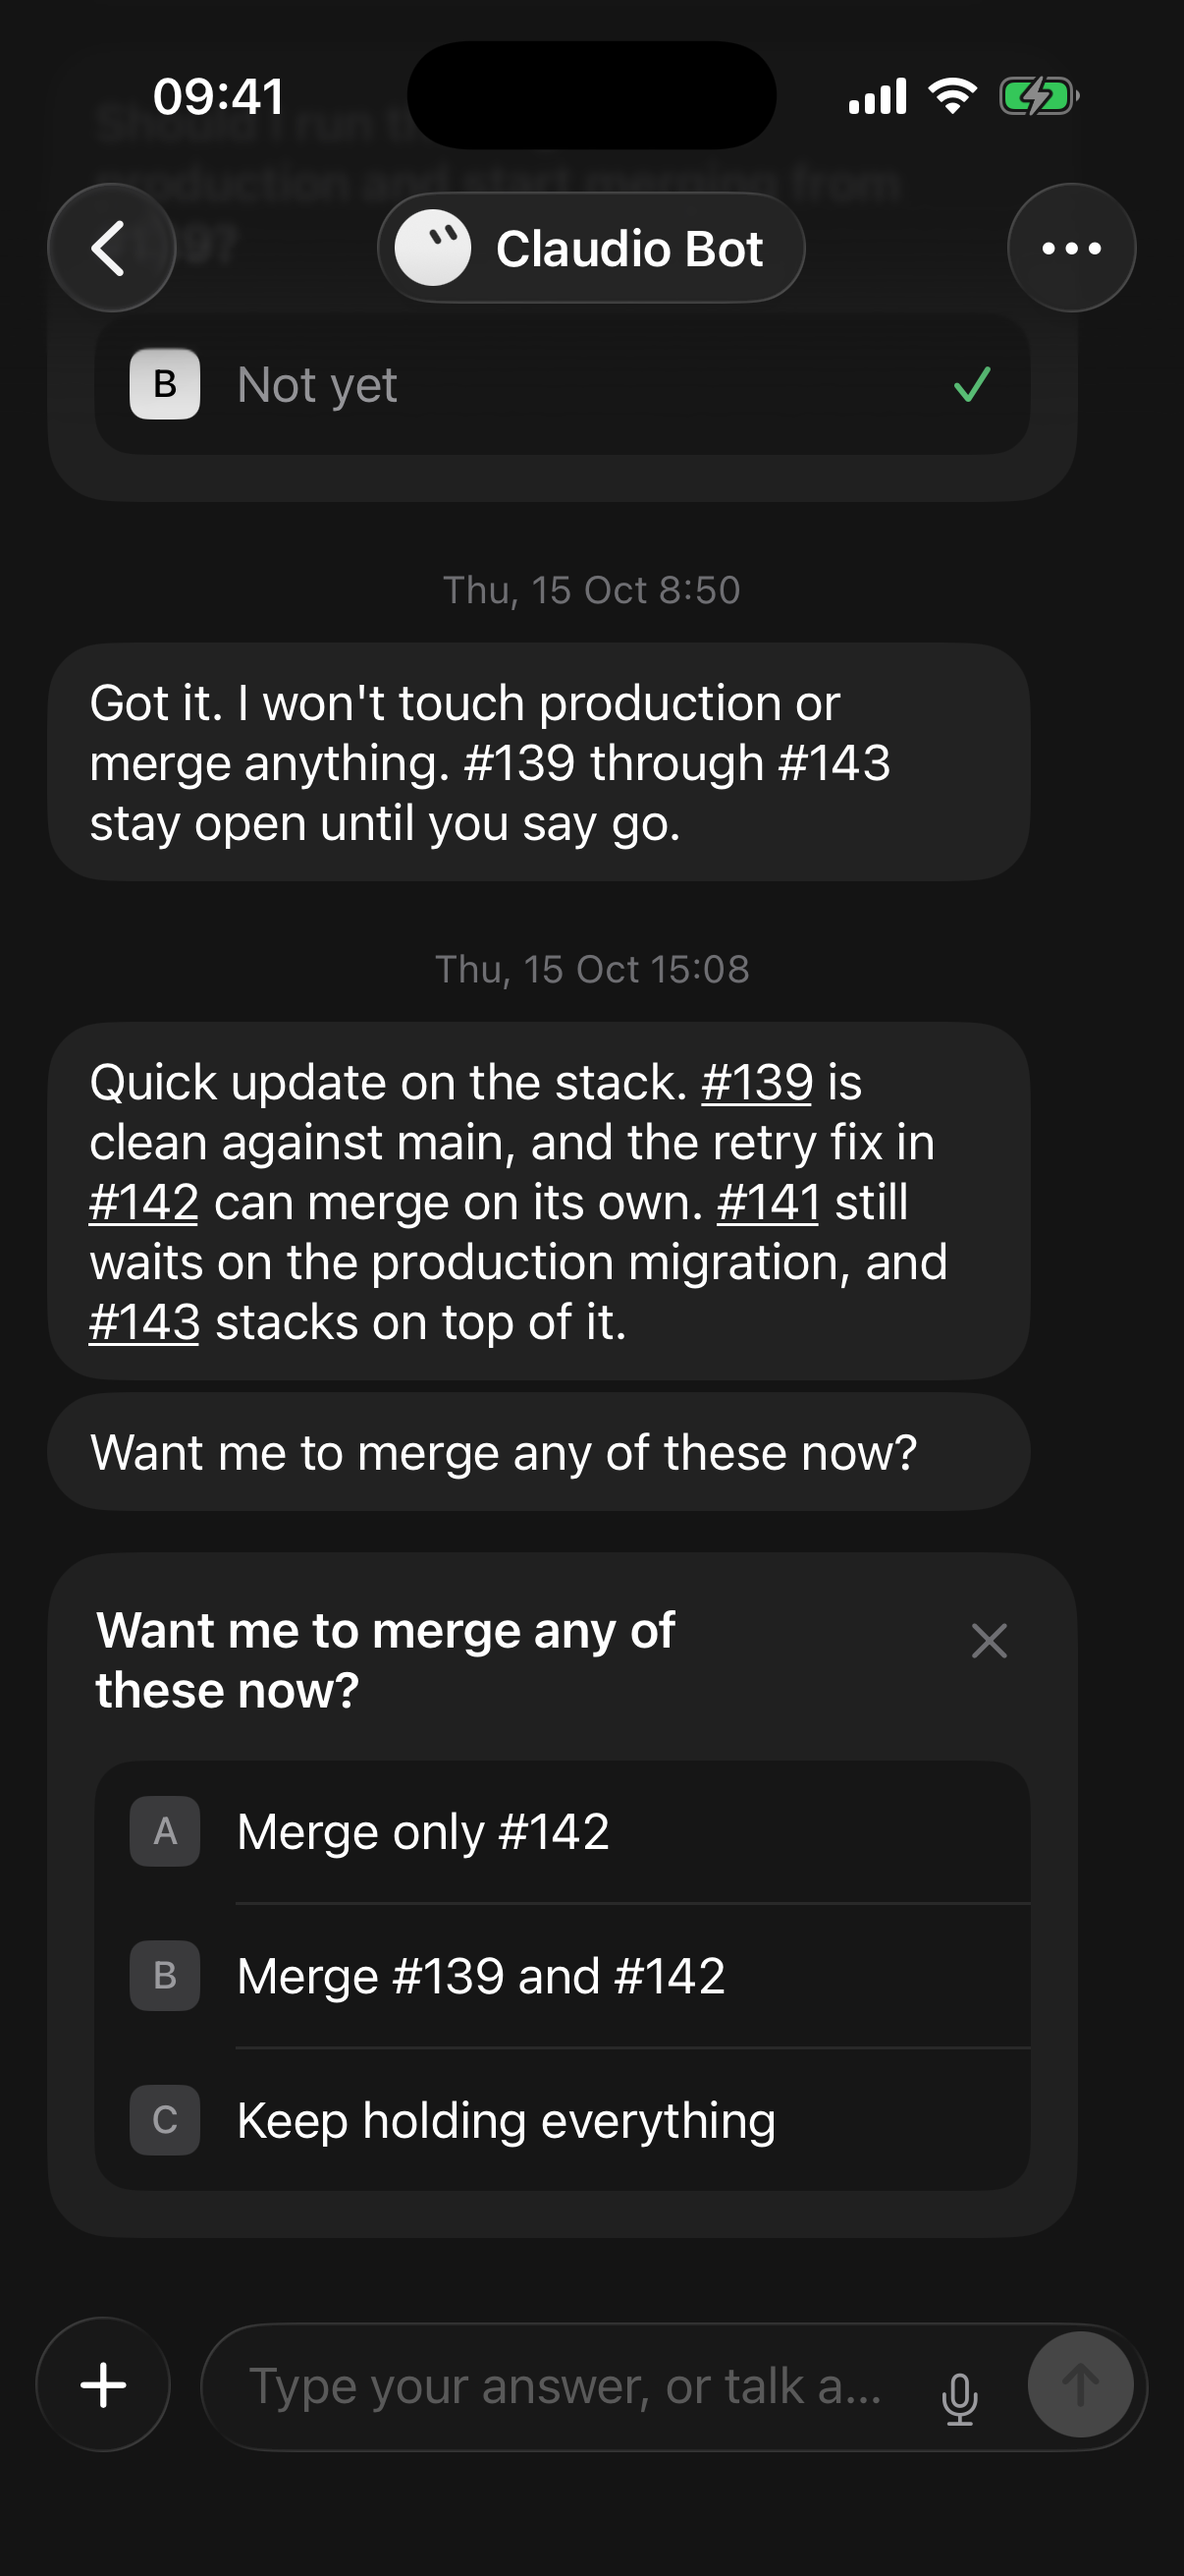
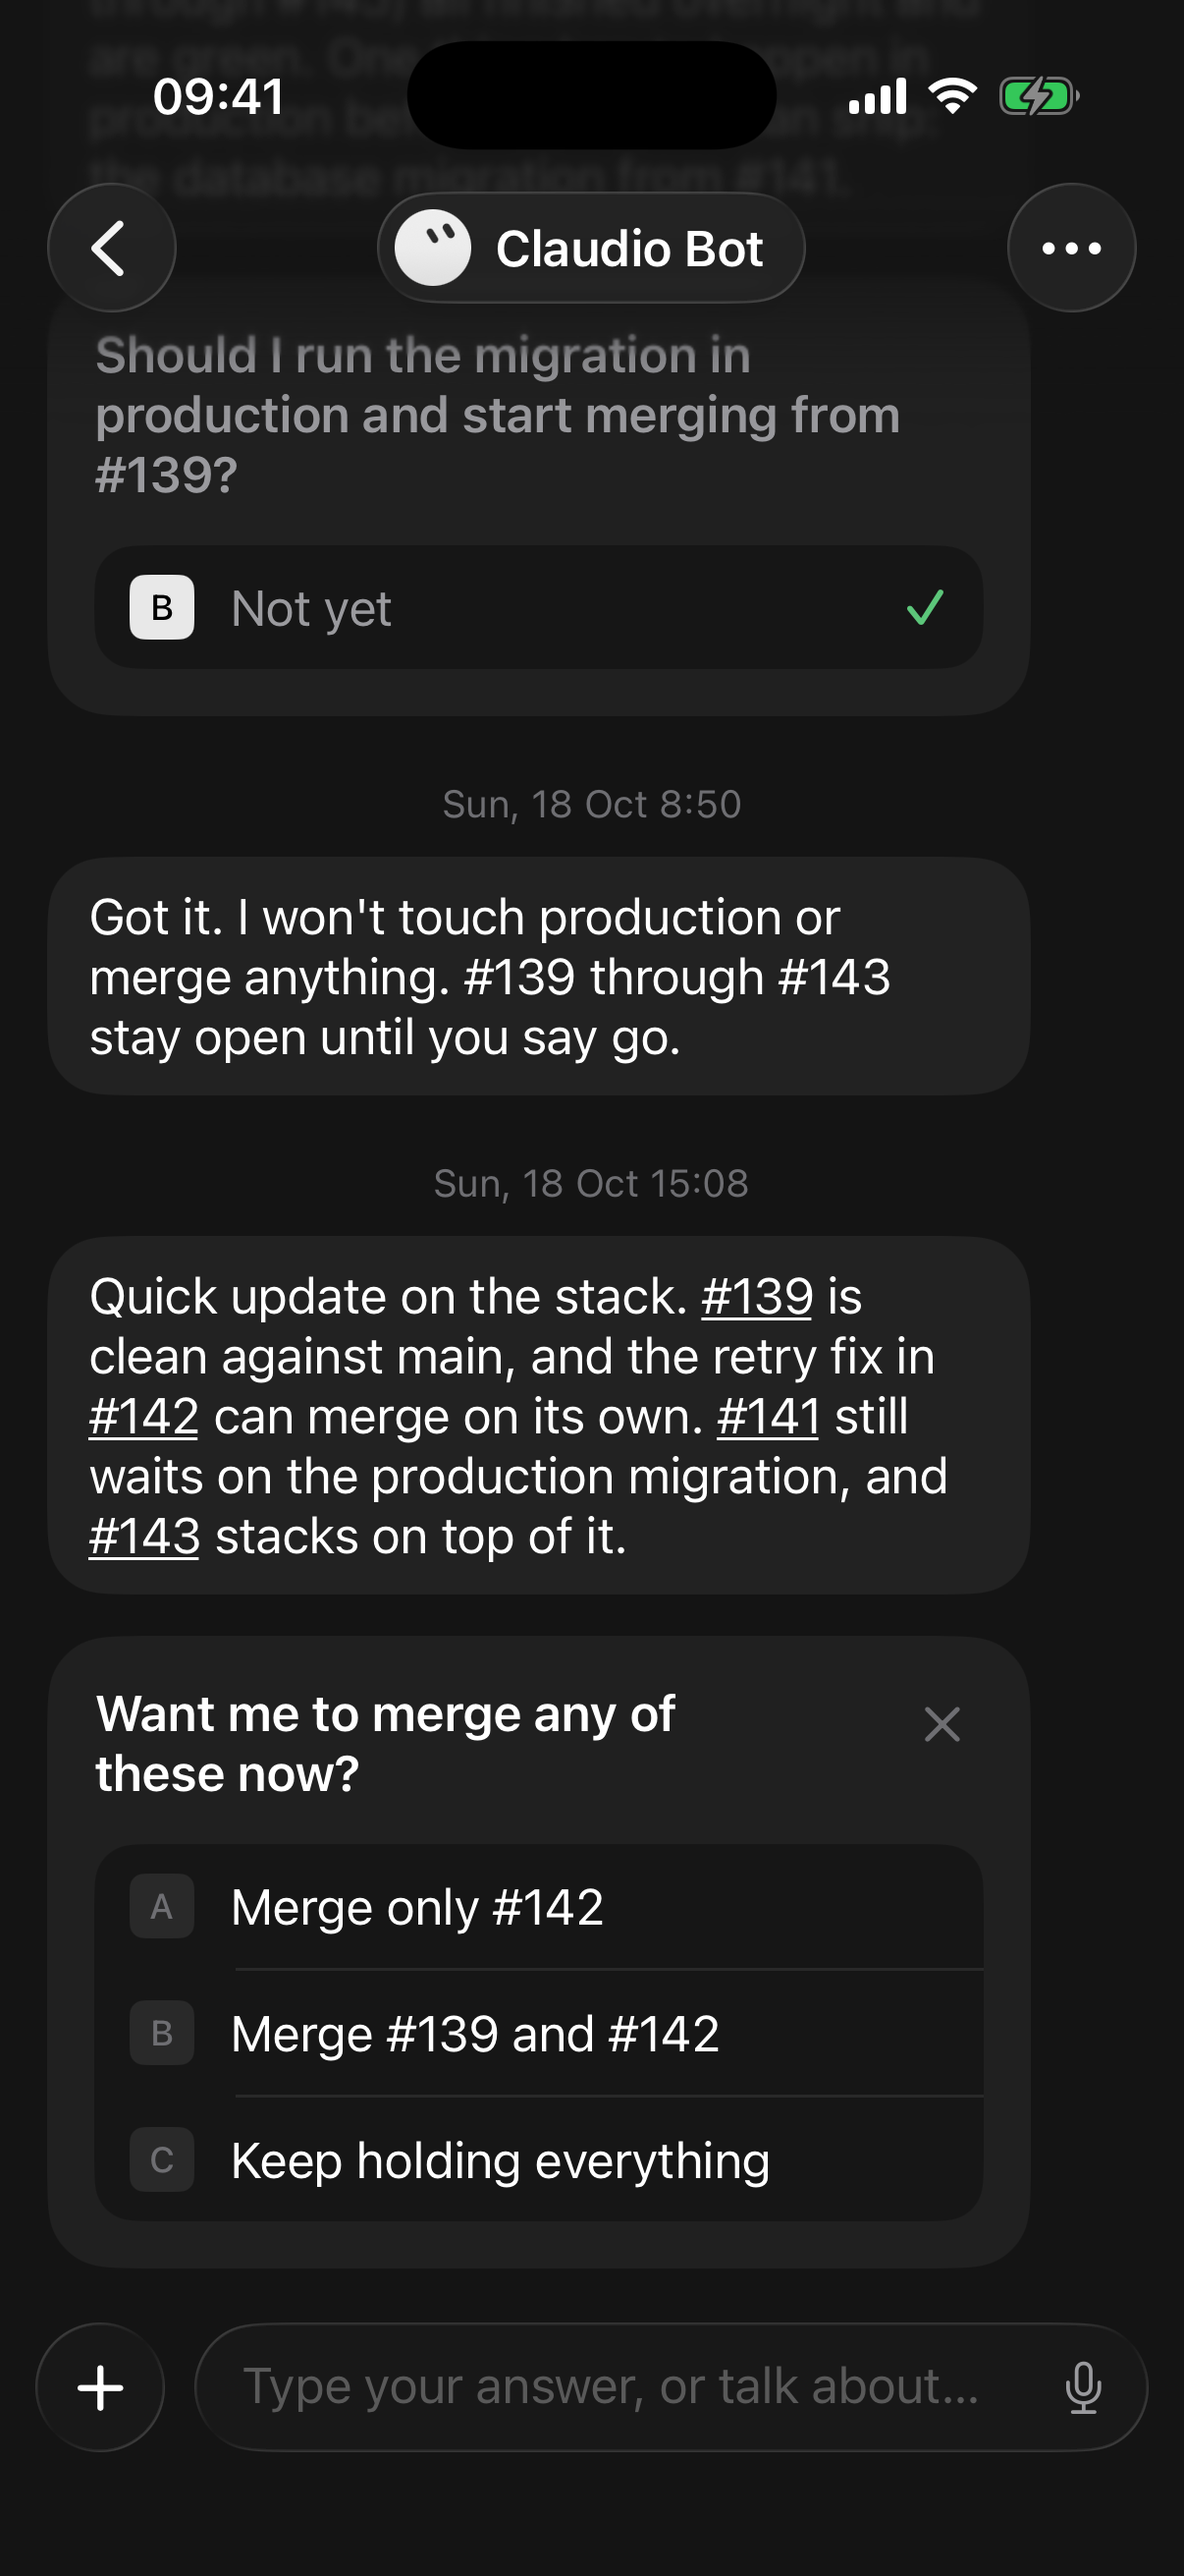
Hide the bubble that repeats a question card on iPhone
Grok Bot's iPhone app shows a question card without a bubble restating
its question above it, while its Mac app keeps that bubble. The chat
timeline now does the same: on iOS a bot bubble whose text matches the
card right after it is left out, ignoring case, whitespace and
emphasis, and the Mac keeps it.

diff --git a/ios/ClaudioBotTests/QuestionRepeatTests.swift b/ios/ClaudioBotTests/QuestionRepeatTests.swift
@@ -1,0 +1,54 @@
+import Foundation
+import Testing
+@testable import ClaudioBot
+
+@Suite struct QuestionRepeatTests {
+    private let start = Date(timeIntervalSince1970: 1_800_000_000)
+    private let ask = "Want me to merge any of these now?"
+
+    private func bot(_ id: String, _ text: String, minutes: Double = 0, from: BotID? = nil) -> Message {
+        .bot(id: MessageID(id), at: start + minutes * 60, text: text, from: from)
+    }
+
+    private func card(_ id: String, minutes: Double = 0) -> Message {
+        .question(id: MessageID(id), at: start + minutes * 60, card: QuestionCard(question: ask, options: ["Yes", "No"], answer: nil))
+    }
+
+    private func ids(_ messages: [Message], hides: Bool) -> [String] {
+        Timeline.rows(messages, hidesRepeatedQuestion: hides).compactMap { if case .message(let m) = $0 { m.id.rawValue } else { nil } }
+    }
+
+    @Test func iPhoneHidesTheExactRepeat() {
+        #expect(ids([bot("a", "Here is the stack."), bot("b", ask), card("q")], hides: true) == ["a", "q"])
+    }
+
+    @Test func iPhoneHidesCaseWhitespaceAndBoldVariants() {
+        for variant in ["  want me to MERGE any of these now?\n", "**\(ask)**", "_\(ask)_"] {
+            #expect(ids([bot("b", variant), card("q")], hides: true) == ["q"], "\(variant)")
+        }
+    }
+
+    @Test func aDifferentBubbleStays() {
+        #expect(ids([bot("b", "Two PRs are green."), card("q")], hides: true) == ["b", "q"])
+    }
+
+    @Test func aBubbleStaysWhenTheCardIsNotNext() {
+        #expect(ids([bot("b", ask), bot("c", "Hold on."), card("q")], hides: true) == ["b", "c", "q"])
+    }
+
+    @Test func aMemberBubbleStays() {
+        #expect(ids([bot("b", ask, from: BotID("x")), card("q")], hides: true) == ["b", "q"])
+    }
+
+    @Test func theMacKeepsTheRepeat() {
+        #expect(ids([bot("b", ask), card("q")], hides: false) == ["b", "q"])
+    }
+
+    @Test func aHiddenBubbleLeavesNoOrphanSeparator() {
+        let rows = Timeline.rows([bot("a", "Hi"), bot("b", ask, minutes: 120), card("q", minutes: 121)], hidesRepeatedQuestion: true)
+        #expect(rows.map(\.isSeparator) == [true, false, true, false])
+        #expect(rows.map(\.id).last == "q")
+        let first = Timeline.rows([bot("b", ask), card("q", minutes: 1)], hidesRepeatedQuestion: true)
+        #expect(first.map(\.isSeparator) == [true, false])
+    }
+}

diff --git a/ios/ClaudioBot/Model/Display.swift b/ios/ClaudioBot/Model/Display.swift
@@ -79,11 +79,21 @@ enum ChatRow: Identifiable, Equatable {
 enum Timeline {
     static let gap: TimeInterval = 60 * 60
 
-    /// A separator opens the conversation and every gap longer than an hour.
-    static func rows(_ messages: [Message]) -> [ChatRow] {
+    /// The iPhone omits a bubble that only repeats the question card right after it; the Mac shows it, as Grok Bot does.
+    static var hidesRepeatedQuestion: Bool {
+        #if os(macOS)
+        false
+        #else
+        true
+        #endif
+    }
+
+    /// A separator opens the conversation and every gap longer than an hour, counted between shown messages only.
+    static func rows(_ messages: [Message], hidesRepeatedQuestion: Bool = Timeline.hidesRepeatedQuestion) -> [ChatRow] {
         var rows: [ChatRow] = []
         var last: Date?
-        for message in messages {
+        for (index, message) in messages.enumerated() {
+            if hidesRepeatedQuestion, messages.indices.contains(index + 1), repeats(message, messages[index + 1]) { continue }
             if last.map({ message.at.timeIntervalSince($0) > gap }) ?? true {
                 rows.append(.separator(message.at))
             }
@@ -91,6 +101,17 @@ enum Timeline {
             last = message.at
         }
         return rows
+    }
+
+    private static func repeats(_ message: Message, _ next: Message) -> Bool {
+        guard case .bot(_, _, let text, nil) = message, case .question(_, _, let card) = next else { return false }
+        return normalized(text) == normalized(card.question)
+    }
+
+    /// Bots often bold the restated question, so emphasis marks don't count.
+    private static func normalized(_ text: String) -> String {
+        text.trimmingCharacters(in: .whitespacesAndNewlines.union(CharacterSet(charactersIn: "*_")))
+            .lowercased()
     }
 }
 

diff --git a/docs/ui-motion-audit.md b/docs/ui-motion-audit.md
@@ -98,7 +98,10 @@ The demo bridge now answers Stop by setting the bot idle, so Stop can be exercis
 - Grok has no status chips on Home rows. Ours carry Awaiting approval and Parked, which the product needs.
 - Grok has a voice-mode button. ClaudioBot has no voice mode yet.
 - The `@` menu sits inside the composer's inset, so opening it lifts the list. Drawing it as an overlay would stop that.
-- Grok on iPhone doesn't repeat the question as a bubble above its card, but the Mac app does.
+
+### Shipped after the audit
+
+- iPhone drops a plain bot bubble that only repeats the question card right after it, as Grok does. The Mac keeps it. The rule lives in `Timeline.rows`, and `static-chat.png` shows the result.
 
 ### Verification
 

diff --git a/docs/grok-bot-reference.md b/docs/grok-bot-reference.md
@@ -41,6 +41,7 @@ A flat blob character with two eyes. 13 shapes (circle, cloud, rounded diamond, 
 ### Question card
 
 - A card with the question in bold and lettered options (A, B, C, D). Tapping an option answers it. iPhone adds an X to dismiss without answering.
+- iPhone shows no bubble repeating the question above the card. The Mac app does show a short one.
 - Once answered, the card dims: the question is gray and only the chosen option remains, its letter in the bot color.
 - Typing a free-text reply is allowed while the card is open.
 - Bots ask before risky actions this way ("Should I run the migration in production and start merging?"). Permission is a conversation, not a modal.
